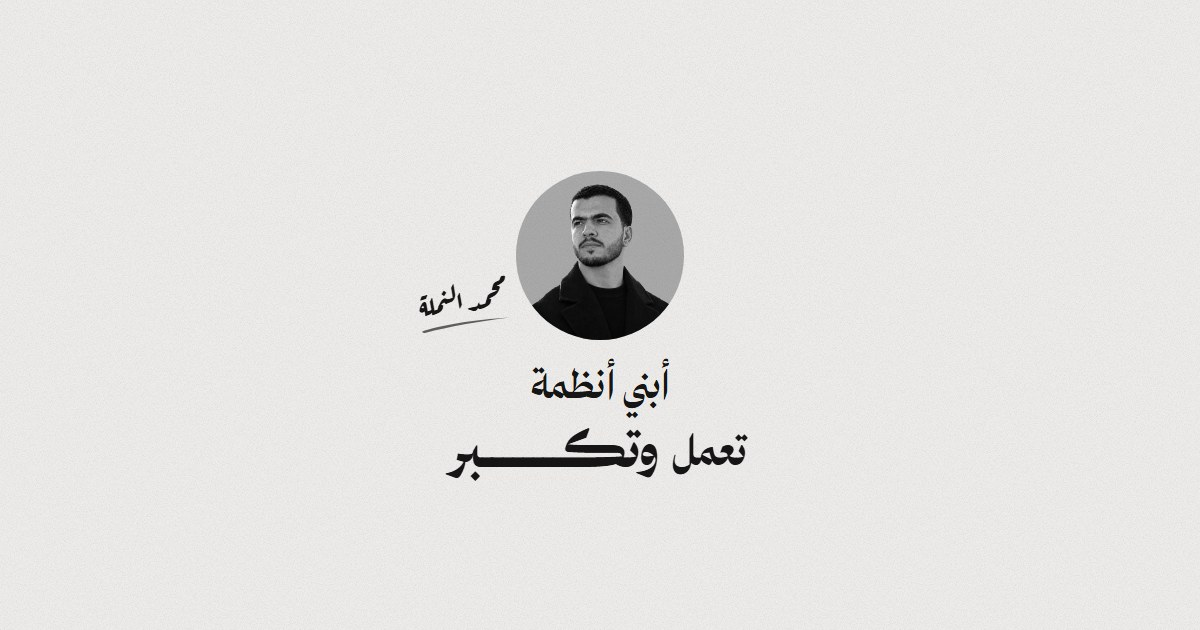
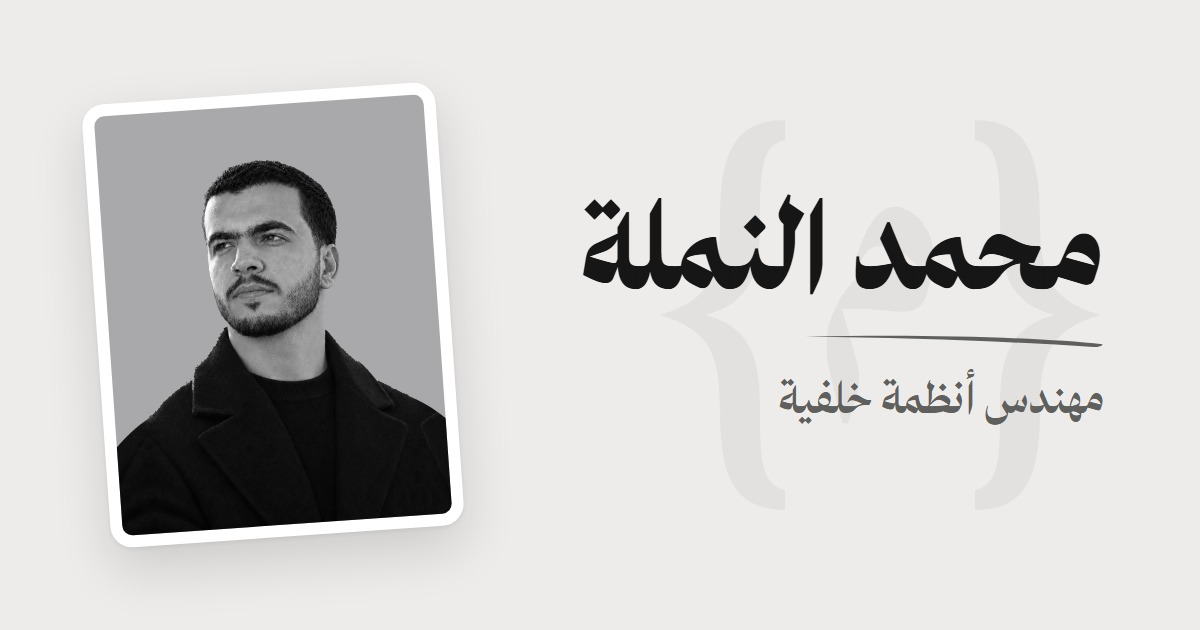
feat(portfolio): use the tilted card as the link preview image
The new image shows the portrait on a white tilted card with the name and
role, and drops the slogan. The image address carries a version so apps
fetch the new picture.

Changed region(s): [[0.0617, 0.1206, 0.925, 0.8746], [0.6475, 0.6032, 0.925, 0.6937], [0.7092, 0.5127, 0.925, 0.573]]

diff --git a/index.html b/index.html
@@ -12,15 +12,15 @@
   <meta property="og:url" content="https://mohammed-alnamla.vercel.app/">
   <meta property="og:title" content="محمد النملة — مهندس أنظمة خلفية">
   <meta property="og:description" content="مهندس أنظمة خلفية أبني منصات SaaS ونقاط بيع وأنظمة حجز تعمل وتكبر.">
-  <meta property="og:image" content="https://mohammed-alnamla.vercel.app/images/og.jpg">
+  <meta property="og:image" content="https://mohammed-alnamla.vercel.app/images/og.jpg?v=2">
   <meta property="og:image:width" content="1200">
   <meta property="og:image:height" content="630">
   <meta property="og:image:type" content="image/jpeg">
-  <meta property="og:image:alt" content="صورة محمد النملة مع عبارة: أبني أنظمة تعمل وتكبر">
+  <meta property="og:image:alt" content="صورة محمد النملة مع اسمه ومسماه: مهندس أنظمة خلفية">
   <meta name="twitter:card" content="summary_large_image">
   <meta name="twitter:title" content="محمد النملة — مهندس أنظمة خلفية">
   <meta name="twitter:description" content="مهندس أنظمة خلفية أبني منصات SaaS ونقاط بيع وأنظمة حجز تعمل وتكبر.">
-  <meta name="twitter:image" content="https://mohammed-alnamla.vercel.app/images/og.jpg">
+  <meta name="twitter:image" content="https://mohammed-alnamla.vercel.app/images/og.jpg?v=2">
   <link rel="icon" href="favicon.ico" sizes="48x48">
   <link rel="icon" href="images/icons/icon-32.png" type="image/png" sizes="32x32">
   <link rel="icon" href="images/icons/icon-512.png" type="image/png" sizes="512x512">
